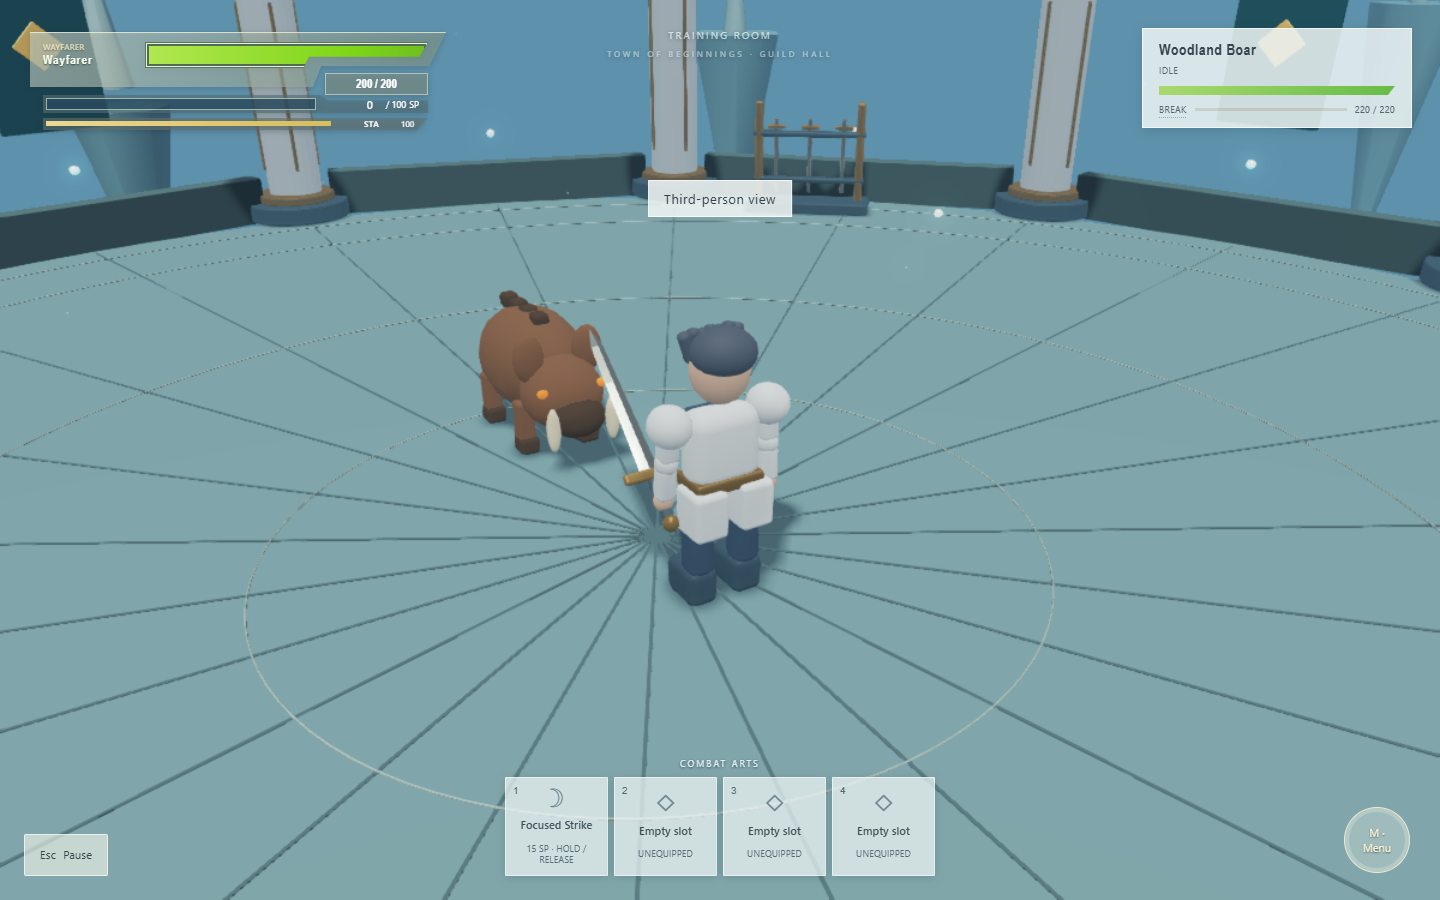
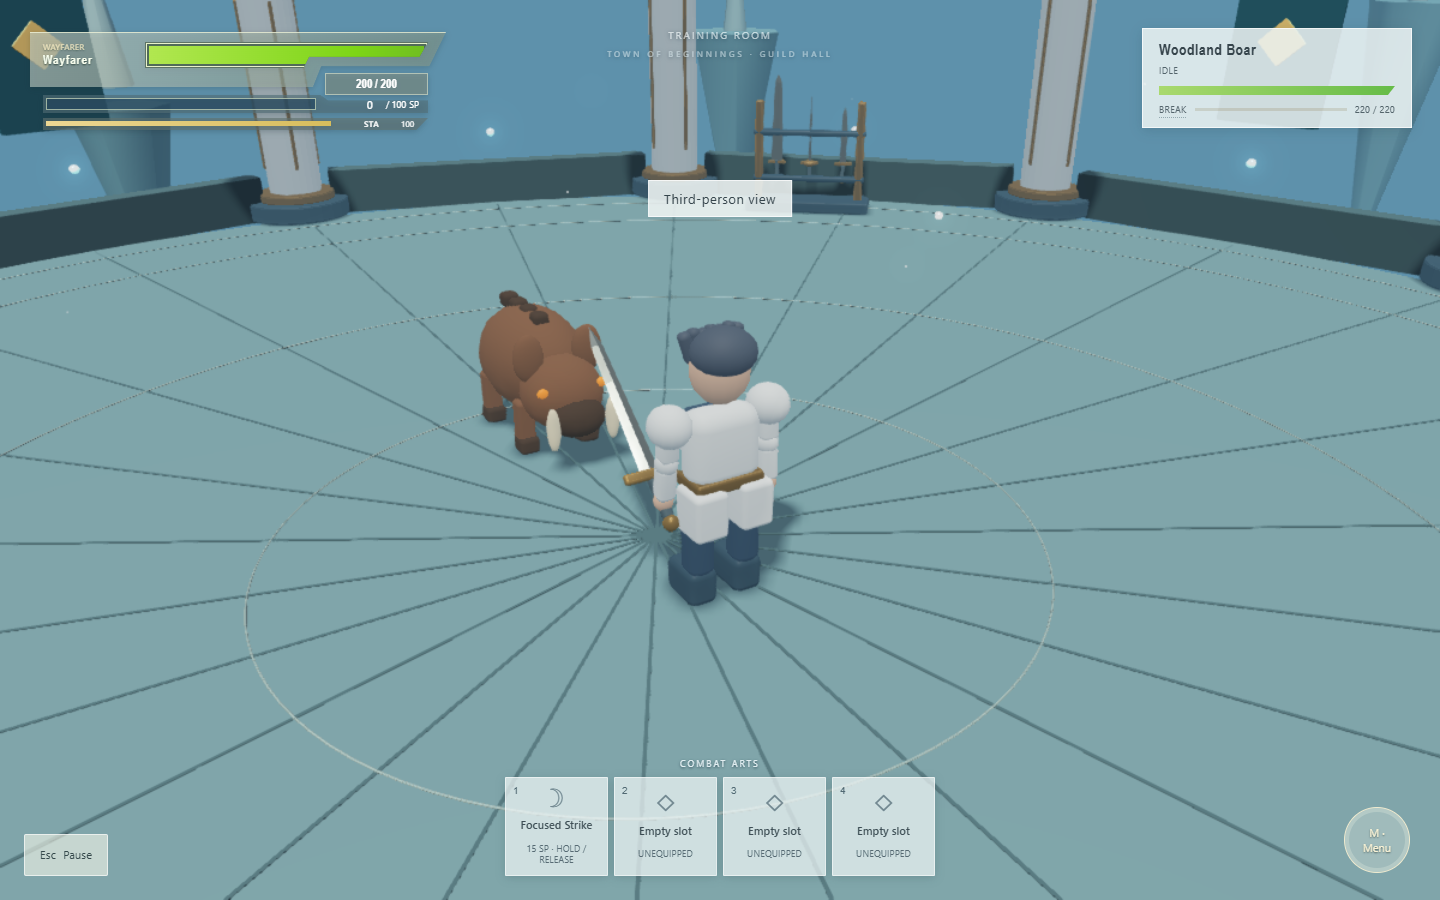
Differentiate training weapon roles and display the real armory

diff --git a/src/ui/weaponRack.ts b/src/ui/weaponRack.ts
@@ -1,3 +1,5 @@
+import {arts} from '../data/arts';
+import {balance,chargeTime,physicalDamage} from '../data/balance';
 import {weapons} from '../data/weapons';
 import {nearWeaponRack} from '../data/room';
 import {bindingText,type Bindings} from '../input/bindings';
@@ -12,8 +14,8 @@ export class WeaponRack {
  close(){this.panel.hidden=true;}
  update(active:boolean){this.prompt.hidden=!active||!this.available||!this.panel.hidden;this.prompt.textContent=`${bindingText(this.bindings(),'interact')} · Inspect weapon rack`;if(!active||!this.available)this.close();}
  open(){if(!this.available)return;this.panel.hidden=false;this.render();}
- render(){this.panel.innerHTML=`<div class="tray-heading"><h2>Guild weapon rack</h2><button id="rack-close" aria-label="Close weapon rack">×</button></div><p>Choose a training weapon. Step away to close.</p>${Object.values(weapons).map(w=>`<button class="rack-choice" data-weapon="${w.id}" aria-pressed="${this.sim.weapon===w.id}"><b>${w.name}</b><span>${w.description}</span><small>${this.sim.weapon===w.id?'Equipped':'Take weapon'}</small></button>`).join('')}<p role="status" id="rack-status">Sword-only Arts are unequipped when changing weapon.</p>`;
+ render(){this.panel.innerHTML=`<div class="tray-heading"><h2>Guild weapon rack</h2><button id="rack-close" aria-label="Close weapon rack">×</button></div><p>Choose a training weapon. Step away to close.</p>${Object.values(weapons).map(w=>`<button class="rack-choice" data-weapon="${w.id}" aria-pressed="${this.sim.weapon===w.id}"><b>${w.name}</b><span>${w.description}</span><span class="weapon-stats">${Math.round(physicalDamage(w.damage,this.sim.attributes.strength))} damage (${w.damage} base) · ${Math.round(chargeTime(this.sim.attributes.dexterity)*w.startup/87)+balance.basic.active+w.recovery} ms attack cycle<br>${w.startup} ms nominal wind-up · ${w.recovery} ms recovery<br>${w.shape.range} m reach · ${w.shape.kind==='sector'?Math.round(w.shape.halfArc*360/Math.PI)+'° fan':w.shape.kind==='box'?(w.shape.halfWidth*2).toFixed(2)+' m lane':'radial'} · ${w.maxTargets??'All'} target${w.maxTargets===1?'':'s'}<br>${w.break} Break · ${Math.round((1-w.guard)*100)}% guard reduction${w.practiceArt?'<br>Practice Art: '+arts[w.practiceArt].name:''}</span><small>${this.sim.weapon===w.id?'Equipped':'Take weapon'}</small></button>`).join('')}<p role="status" id="rack-status">Incompatible Arts are unequipped. Specialty practice Arts are learned when taking their weapon; equip them in Menu → Skills. Attack cycle includes wind-up, 140 ms contact and recovery.</p>`;
   this.panel.querySelector<HTMLButtonElement>('#rack-close')!.onclick=()=>this.close();
-  this.panel.querySelectorAll<HTMLButtonElement>('[data-weapon]').forEach(b=>b.onclick=()=>{if(this.available&&this.sim.setWeapon(b.dataset.weapon!)){this.persist();this.render();document.getElementById('rack-status')!.textContent='Equipped · '+this.sim.weaponDefinition.name;}else this.close();});
+  this.panel.querySelectorAll<HTMLButtonElement>('[data-weapon]').forEach(b=>b.onclick=()=>{if(this.available&&this.sim.setWeapon(b.dataset.weapon!)){const art=this.sim.weaponDefinition.practiceArt;if(art)this.sim.progression.learned[art]='rack practice';this.persist();this.render();document.getElementById('rack-status')!.textContent='Equipped · '+this.sim.weaponDefinition.name;}else this.close();});
  }
 }

diff --git a/src/engine/scene.ts b/src/engine/scene.ts
@@ -90,6 +90,8 @@ export class LabScene {
     const column = await this.asset('/assets/environments/guild_column.glb'); column.setEnabled(false);
     for (let i = 0; i < 12; i++) { const a = i * Math.PI / 6; const copy = column.clone(`column-${i}`, null)!; copy.setEnabled(true); copy.position.set(Math.sin(a)*13.4,0,Math.cos(a)*13.4); this.cast(copy); }
     const rack = await this.asset('/assets/props/weapon_rack.glb'); rack.position.set(weaponRack.x,0,weaponRack.z); rack.rotation.y = weaponRack.yaw; this.cast(rack);
+    for(const mesh of rack.getChildMeshes())if(/practice_blade|practice_guard/.test(mesh.name))mesh.setEnabled(false);
+    for(const [i,w] of Object.values(weapons).entries()){const display=await this.asset(w.model);display.name='rack display '+w.id;display.parent=rack;display.position.set((i-1)*.6,.65,.25);display.rotation.x=-Math.PI/2;display.scaling.setAll(.8);this.cast(display);}
     this.ring = MeshBuilder.CreateTorus('lock indicator', { diameter: 1.8, thickness: .035, tessellation: 48 }, this.scene); this.ring.material = this.material('lock', '#72e6ef', 1); this.ring.position.y = .07;
     this.setQuality('medium');
     window.addEventListener('resize', () => this.engine.resize());
@@ -196,13 +198,13 @@ export class LabScene {
     if(this.firstWeapon){this.firstWeapon.setEnabled(this.firstPerson);this.firstWeapon.rotation.x=-.2+(pose?.pitch??0)*.45;this.firstWeapon.rotation.z=(pose?.yaw??0)*.25;}
     for(const arm of [this.player.leftArm,this.player.rightArm]){if(!arm)continue;const elbow=arm.getDescendants().find(n=>n.name.endsWith('_elbow')) as TransformNode|undefined;if(elbow)elbow.rotationQuaternion=null;}
       if(this.equippedWeapon==='greatsword'){
-        let heavy={pitch:-.95,lift:0};
+        let heavy={pitch:-.95,lift:0,yaw:0};
         if(state==='BasicAttackStartup')heavy=greatswordPose(sim.now,sim.actionStart,sim.actionEnd);
         else if(['BasicAttackActive','BasicAttackRecovery'].includes(state)&&sim.lastContact){const at=sim.lastContact.at;heavy=greatswordPose(sim.now<sim.hitStopUntil?at:sim.now,at-chargeTime(sim.attributes.dexterity)*sim.weaponDefinition.startup/87,at);}
-        else if(pose)heavy={pitch:-.95+pose.pitch*.55,lift:0};
+        else if(pose)heavy={pitch:-.95+pose.pitch*.55,lift:0,yaw:pose.yaw};
         // The authored edge is local X; roll 90 degrees so the edge, not the flat,
         // leads the vertical Y/Z cutting plane. Keep the grip sockets on local Z.
-        const orientation=Quaternion.RotationAxis(Vector3.Right(),heavy.pitch).multiply(Quaternion.RotationAxis(Vector3.Forward(),Math.PI/2));
+        const orientation=Quaternion.RotationAxis(Vector3.Up(),heavy.yaw).multiply(Quaternion.RotationAxis(Vector3.Right(),heavy.pitch)).multiply(Quaternion.RotationAxis(Vector3.Forward(),Math.PI/2));
         const sword=this.player.sword;sword.position.set(0,1.28+heavy.lift,.20);sword.rotationQuaternion=orientation;
         for(const side of ['left','right'] as const){const arm=side==='left'?this.player.leftArm:this.player.rightArm;if(arm)holdGrip(arm,sword,side);}
         if(this.firstWeapon){this.firstWeapon.position.set(.14,-.30+heavy.lift*.65,-.48);this.firstWeapon.rotationQuaternion=Quaternion.RotationAxis(Vector3.Up(),Math.PI).multiply(orientation);}

diff --git a/src/data/arts.ts b/src/data/arts.ts
@@ -19,6 +19,8 @@ Object.assign(arts,{
  'resonant-cleave':{id:'resonant-cleave',name:'Resonant Cleave',description:'A committed heavy cut that crushes Break. Long recovery.',weapon:'sword',cost:35,startup:320,recovery:600,movement:.3,shape:{kind:'box',range:3,halfWidth:.48},maxTargets:1,arc:1.1,armor:true,motion:'art',nodes:[{at:820,multiplier:13.5,break:72,range:3,input:'press'}]},
  'stillwater-return':{id:'stillwater-return',name:'Stillwater Cut',description:'A compact breath-timed cut. Landing it restores 14 stamina; a miss restores nothing.',weapon:'sword',cost:18,startup:150,recovery:260,movement:0,restoreStamina:14,maxTargets:1,shape:{kind:'box',range:2.2,halfWidth:.3},arc:1.2,armor:true,motion:'basic',nodes:[{at:400,multiplier:11.25,break:18,range:3,input:'press'}]},
  'wayfarer-oath':{id:'wayfarer-oath',name:"Wayfarer's Oath",description:'Two measured cuts. Release the first charge, then hold and release the same slot again for the returning strike.',weapon:'sword',cost:40,startup:220,recovery:420,movement:1,arc:1.3,armor:true,motion:'art',nodes:[{at:620,multiplier:11.25,break:20,range:3.2,input:'press'},{at:1420,multiplier:16.25,break:30,range:3.4,input:'press'}]},
+ 'needle-step':{id:'needle-step',name:'Needle Step',description:'A fast rapier thrust with a sidestep. Perfect moves 2 m forward and 1.4 m right; Good shortens forward travel. One target only.',weapon:'rapier',cost:20,startup:160,recovery:180,movement:2,goodMovement:.5,sideMovement:1.4,arc:.2,armor:false,motion:'basic',travelStrike:true,maxTargets:1,shape:{kind:'box',range:2,halfWidth:.28},nodes:[{at:430,multiplier:12,break:14,range:2,input:'press'}]},
+ 'iron-horizon':{id:'iron-horizon',name:'Iron Horizon',description:'A broad two-handed cleave that strikes every foe in front. High damage and Break; commit to the long recovery.',weapon:'greatsword',cost:35,startup:350,recovery:850,movement:.5,arc:1.2,armor:true,motion:'art',shape:{kind:'sector',range:3.6,halfArc:1.2},nodes:[{at:850,multiplier:12,break:60,range:3.6,input:'press'}]},
 } satisfies Record<string,ArtDefinition>);
 export function chargeDuration(art:ArtDefinition,stage=0){return art.nodes[stage].at-(art.nodes[stage-1]?.at??0);}
 export function validateArts() {

diff --git a/src/data/weapons.ts b/src/data/weapons.ts
@@ -1,9 +1,11 @@
 import type {HitShape} from '../combat/geometry';
-export interface TrainingWeapon {id:string;name:string;description:string;damage:number;startup:number;recovery:number;break:number;shape:HitShape;guard:number;model:string;}
+export interface TrainingWeapon {id:string;name:string;description:string;maxTargets?:number;practiceArt?:string;damage:number;startup:number;recovery:number;break:number;shape:HitShape;guard:number;model:string;}
 const sector=(range:number,halfArc:number):HitShape=>({kind:'sector',range,halfArc});
 const box=(range:number,halfWidth:number):HitShape=>({kind:'box',range,halfWidth});
 export const weapons:Record<string,TrainingWeapon>=Object.fromEntries([
- ['sword','One-handed sword','Balanced reach, speed and recovery.',4,87,240,2,sector(2.9,1.4),.2],
- ['rapier','Rapier','A fast, narrow thrust; aim carefully.',3,65,200,1,box(3.1,.22),.25],
- ['greatsword','Two-handed sword','A powerful overhead cut down a narrow lane; slow wind-up and exposed recovery.',12,420,520,5,box(2.2,.48),.25],
+ ['sword','One-handed sword','Versatile blade with the strongest guard; leaves the off hand free for a future shield.',4,87,240,2,sector(2.9,.95),.2],
+ ['rapier','Rapier','Fast single-target thrusts and mobile precision Arts. Low damage and Break per hit.',3,55,140,1,box(3.1,.22),.25],
+ ['greatsword','Two-handed sword','Heavy diagonal cleaves catch groups. High damage and Break, with a long vulnerable recovery.',12,420,680,8,sector(3.2,1.35),.4],
 ].map(([id,name,description,damage,startup,recovery,br,shape,guard])=>[id,{id,name,description,damage,startup,recovery,break:br,shape,guard,model:`/assets/weapons/training_${id}.glb`}] as [string,TrainingWeapon]));
+
+weapons.rapier.maxTargets=1;weapons.rapier.practiceArt='needle-step';weapons.greatsword.practiceArt='iron-horizon';

diff --git a/tests/weapon-roles.test.ts b/tests/weapon-roles.test.ts
@@ -1,0 +1,6 @@
+import {it,expect} from 'vitest';
+import {CombatSimulation} from '../src/combat/simulation';
+import {validateProgression,validLoadout} from '../src/progression/guild';
+it('rapier basics hit only the nearest target while greatsword cleaves a group',()=>{for(const weapon of ['rapier','greatsword']){const s=new CombatSimulation();s.weapon=weapon;s.player.z=0;s.spawnEnemy();s.spawnEnemy();s.enemies[0].x=0;s.enemies[0].z=1.8;s.enemies[1].x=.1;s.enemies[1].z=2.6;s.strike(s.weaponDefinition.damage,s.weaponDefinition.break,3,'Normal','basic',true);expect(s.enemies.filter(e=>e.hp<e.maxHp)).toHaveLength(weapon==='rapier'?1:2);expect(s.player.sp).toBe(10);}});
+it('rack practice skills persist and enforce their own weapon restriction',()=>{const s=new CombatSimulation();s.progression.learned['needle-step']='rack practice';s.progression.learned['iron-horizon']='rack practice';const p=validateProgression(s.progression);expect(p.learned['needle-step']).toBe('rack practice');expect(validLoadout(['needle-step',null,null,null],p,'rapier')).toBe(true);expect(validLoadout(['needle-step',null,null,null],p,'sword')).toBe(false);});
+it('specialty Arts spend SP and execute on their matching weapons',()=>{for(const [weapon,id] of [['greatsword','iron-horizon'],['rapier','needle-step']]){const s=new CombatSimulation();s.weapon=weapon;s.progression.learned[id]='rack practice';s.loadout=[id,null,null,null];s.player.sp=100;s.flags.freezeAI=true;s.spawnEnemy();s.player.z=0;s.enemies[0].z=2;expect(s.activateArt(0)).toBe(true);const target=s.art!.definition.nodes[0].at;for(let t=0;t<target;t+=10)s.update(10);s.releaseArt(0);for(let t=0;t<800;t+=10)s.update(10);expect(s.enemies[0].hp).toBeLessThan(s.enemies[0].maxHp);expect(s.player.sp).toBeLessThan(100);}});

diff --git a/src/combat/simulation.ts b/src/combat/simulation.ts
@@ -165,10 +165,11 @@ export class CombatSimulation {
   strike(damage: number, breakDamage: number, range: number, grade: Grade, phase: string, basic = false) {
     const shape:HitShape=basic?this.weaponDefinition.shape:this.art?artShape(this.art.definition,this.art.stage):{kind:'sector',range,halfArc:balance.basic.arc};
     this.lastContact={at:this.now,shape};
-    let landed = false;
+    let landed = false,targetsHit=0;
     for (const enemy of [...this.enemies].sort((a,b)=>Math.hypot(a.x-this.player.x,a.z-this.player.z)-Math.hypot(b.x-this.player.x,b.z-this.player.z))) if (containsHit(shape,this.player,this.player.yaw,enemy)) {
+      if(basic&&targetsHit>=(this.weaponDefinition.maxTargets??Infinity))break;
       if(!basic&&this.art?.definition.maxTargets&&this.art.victims.size>=this.art.definition.maxTargets)break;
-      const hit=this.hitEnemy(enemy,physicalDamage(damage,this.attributes.strength),breakDamage,grade,phase);if(hit&&!basic&&this.art){this.art.victims.add(enemy.id);if(this.art.definition.restoreStamina)this.player.stamina=Math.min(this.staminaMax,this.player.stamina+this.art.definition.restoreStamina*artMultiplier(grade));}landed=hit||landed;
+      const hit=this.hitEnemy(enemy,physicalDamage(damage,this.attributes.strength),breakDamage,grade,phase);if(hit&&!basic&&this.art){this.art.victims.add(enemy.id);if(this.art.definition.restoreStamina)this.player.stamina=Math.min(this.staminaMax,this.player.stamina+this.art.definition.restoreStamina*artMultiplier(grade));}if(hit)targetsHit++;landed=hit||landed;
     }
     if (basic && landed) this.player.sp = gainSp(this.player.sp, balance.sp.normal);
   }

diff --git a/tests/browser/weapon-roles.spec.ts b/tests/browser/weapon-roles.spec.ts
@@ -1,0 +1,10 @@
+import {test,expect} from '@playwright/test';
+import {createTestCharacter,dismissInvitation} from '../uiHelpers';
+test('rack displays real weapons, comparison data and persistent specialty Arts',async({page})=>{
+ await page.goto('/?webgl');await createTestCharacter(page);await page.locator('#begin').click();await dismissInvitation(page);
+ await page.evaluate(()=>{const t=window.trinity;t.sim.player.x=-8;t.sim.player.z=7;t.view.camera.alpha=-1.2;t.view.cameraDistance=4;});await page.waitForTimeout(600);await page.screenshot({path:'docs/screenshots/three-weapon-rack.png'});
+ expect(await page.evaluate(()=>window.trinity.view.scene.transformNodes.filter((n:any)=>n.name.startsWith('rack display ')).length)).toBe(3);
+ await page.keyboard.press('e');await expect(page.locator('#weapon-rack')).toContainText('680 ms recovery');await expect(page.locator('#weapon-rack')).toContainText('140 ms recovery');await page.screenshot({path:'docs/screenshots/weapon-comparison.png'});
+ for(const [weapon,skill] of [['rapier','needle-step'],['greatsword','iron-horizon']]){await page.locator(`[data-weapon=${weapon}]`).click();expect(await page.evaluate(id=>window.trinity.sim.progression.learned[id],skill)).toBe('rack practice');}
+ await page.evaluate(()=>window.trinity.persist());await page.reload();await expect(page.locator('#begin')).toBeEnabled();expect(await page.evaluate(()=>window.trinity.sim.progression.learned['iron-horizon'])).toBe('rack practice');expect(await page.evaluate(()=>window.trinity.view.assetErrors)).toEqual([]);
+});

diff --git a/tests/browser/training.spec.ts b/tests/browser/training.spec.ts
@@ -20,6 +20,6 @@ test('three weapons, direct Art editor, responsive skill profiles and first-pers
  await page.evaluate(()=>{const s=window.trinity.sim;s.spawnEnemy();s.player.x=0;s.player.z=0;s.enemies[0].x=2;s.enemies[0].z=2;s.lockedId=s.enemies[0].id;});
  await expect.poll(()=>page.evaluate(()=>{const t=window.trinity,v=t.view,s=t.sim;const desired=Math.atan2(s.target.z-s.player.z,s.target.x-s.player.x)+Math.PI;return Math.abs(Math.atan2(Math.sin(v.camera.alpha-desired),Math.cos(v.camera.alpha-desired)));})).toBeLessThan(.03);
  await page.screenshot({path:'test-results/first-person-weapon.png'});
- const bank=await page.request.get('/data/skill-bank.json');expect(bank.ok()).toBe(true);const data=await bank.json();expect(data.weapons).toHaveLength(3);expect(data.skills).toHaveLength(7);
+ const bank=await page.request.get('/data/skill-bank.json');expect(bank.ok()).toBe(true);const data=await bank.json();expect(data.weapons).toHaveLength(3);expect(data.skills).toHaveLength(9);
  expect(await page.evaluate(()=>window.trinity.view.assetErrors)).toEqual([]);expect(errors).toEqual([]);
 });

diff --git a/tests/browser/lab.spec.ts b/tests/browser/lab.spec.ts
@@ -7,7 +7,7 @@ async function ready(page:Page,webgl=false){await page.goto(webgl?'/?webgl':'/')
 async function setupClose(page:Page){await page.evaluate(()=>{const s=window.trinity.sim;s.reset();s.spawnEnemy();s.progression.learned['crescent-break']='legacy';s.loadout[0]='crescent-break';s.flags.freezeAI=true;s.player.x=0;s.player.z=0;s.player.yaw=0;s.enemies[0].x=0;s.enemies[0].z=2;});}
 test('real controls, assets, timing, Arts, camera, debug and save',async({page},info)=>{
  const errors:string[]=[];page.on('pageerror',e=>errors.push(e.message));page.on('console',m=>{if(m.type()==='error')errors.push(m.text());});
- await ready(page);await expect.poll(()=>page.evaluate(()=>window.trinity.view.loadedAssets.length)).toBe(7);
+ await ready(page);await expect.poll(()=>page.evaluate(()=>window.trinity.view.loadedAssets.length)).toBe(10);
  await page.evaluate(()=>window.trinity.sim.flags.invulnerable=true);
  const start=await page.evaluate(()=>window.trinity.sim.player.z);
  await page.keyboard.down('w');await page.waitForTimeout(500);await page.keyboard.up('w');

diff --git a/src/progression/guild.ts b/src/progression/guild.ts
@@ -22,6 +22,7 @@ export function validateProgression(raw:unknown):Progression{
   p.tutorialCompleted=data.tutorialCompleted===true;if(p.tutorialCompleted)p.learned.linear='induction';
   for(const k of Object.keys(p.field) as (keyof Progression['field'])[]){const v=data.field?.[k];if(typeof v==='number'&&Number.isFinite(v))p.field[k]=Math.max(0,Math.min(100000,Math.floor(v)));}
   if(data.learned?.['crescent-break']==='legacy'||(!('tutorialCompleted' in data)&&data.learned?.['crescent-break']==='starter'))p.learned['crescent-break']='legacy';
+  for(const id of ['needle-step','iron-horizon'])if(data.learned?.[id]==='rack practice')p.learned[id]='rack practice';
   awardFieldSkills(p);
   // Acquisition follows completed authored challenges, not arbitrary learned-ID claims.
   for(const id of Object.keys(challenges) as ChallengeId[])if(Array.isArray(data.completed)&&data.completed.includes(id)&&canStart(p,id))awardChallenge(p,id,false);

diff --git a/tests/greatsword.test.ts b/tests/greatsword.test.ts
@@ -9,10 +9,10 @@ it('lands one stronger untimed greatsword hit and earns normal basic SP',()=>{
  s.pressAttack();for(let i=0;i<35;i++)s.update(10);expect(e.hp).toBe(hp);
  for(let i=0;i<90;i++)s.update(10);expect(hp-e.hp).toBe(15);expect(s.player.sp).toBe(10);
 });
-it('overhead cut covers the forward lane but excludes lateral and rear targets',()=>{
+it('heavy cleave covers the front fan but excludes rear targets',()=>{
  const shape=weapons.greatsword.shape,origin={x:0,z:0};
  expect(containsHit(shape,origin,0,{x:.3,z:2.0})).toBe(true);
- expect(containsHit(shape,origin,0,{x:1,z:2})).toBe(false);
+ expect(containsHit(shape,origin,0,{x:1,z:2})).toBe(true);
  expect(containsHit(shape,origin,0,{x:0,z:-1})).toBe(false);
 });
 it('winds overhead, swings downward through contact, then recovers without a pose jump',()=>{

diff --git a/src/personal-interface.css b/src/personal-interface.css
@@ -89,3 +89,4 @@
 .player-panel .hp i{width:100%!important;clip-path:inset(0 var(--hp-empty,0%) 0 0);transition:clip-path .15s linear}
 #training-orb{max-height:70vh;overflow:auto}#training-orb #orb-guided,#training-orb #orb-trials{display:flex;flex-direction:column;gap:7px;width:100%;padding:13px;margin-top:10px;text-align:left;background:#eef4ed;color:#405058;border:1px solid #afbec2}#training-orb #orb-guided{border-left:3px solid #d9ac32}
 .player-panel .hp{background:#516b59;box-shadow:inset 0 0 0 1px #e8f1c9}
+#weapon-rack{max-height:75vh;overflow:auto;width:min(640px,92vw)}.rack-choice .weapon-stats{font-size:12px;line-height:1.7;color:#3c5254}.rack-choice{white-space:normal}#weapon-rack #rack-status{font-size:12px;line-height:1.6}
